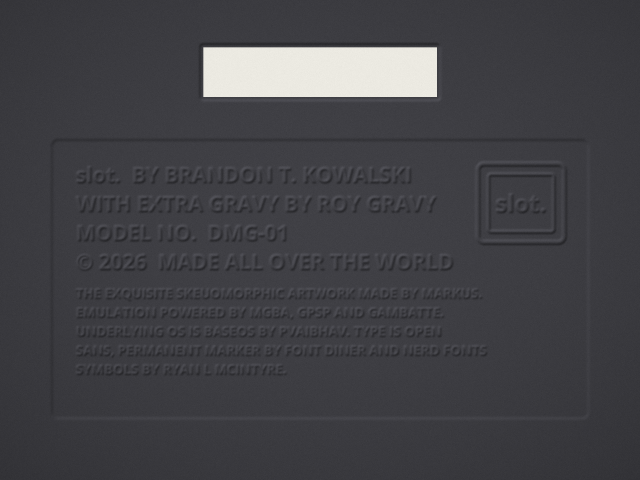
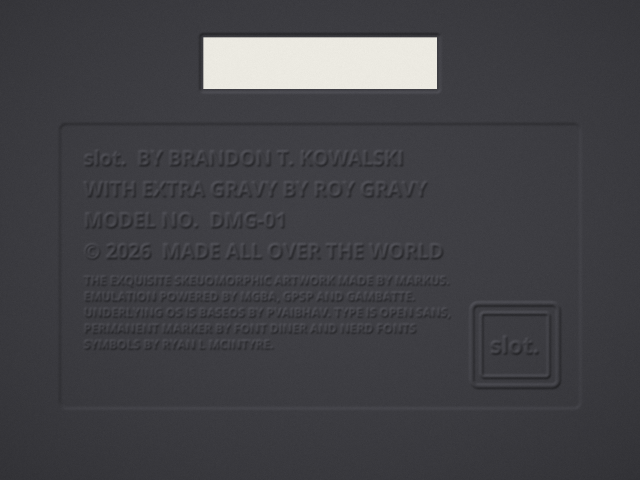
About follows the mockup layout, with a Back hint
The serial label sits higher, the credits fill the panel with the small print wrapped wide,
and the slot. badge sits bottom right. The page now shows the B Back hint like the other
menu pages.

Claude-Session: https://claude.ai/code/session_01HspWrybW4guRb45yc1TcJq

Changed region(s): [[0.3125, 0.0625, 0.6875, 0.125], [0.3125, 0.1875, 0.6875, 0.2188]]

diff --git a/tools/about_art.py b/tools/about_art.py
@@ -14,8 +14,8 @@ FONT = ROOT / "crates" / "slot-ui" / "assets" / "label.ttf"
 W, H, SS = 640, 480, 3
 
 # The paper serial label, in screen pixels; crates/slot-ui/src/about.rs prints on it.
-LABEL = (200, 44, 440, 100)
-PANEL = (52, 140, 588, 418)
+LABEL = (200, 34, 440, 92)
+PANEL = (60, 124, 580, 408)
 
 BIG = [
     "slot.  BY BRANDON T. KOWALSKI",
@@ -23,13 +23,12 @@ BIG = [
     "MODEL NO.  DMG-01",
     "© 2026  MADE ALL OVER THE WORLD",
 ]
-SMALL = [
-    "THE EXQUISITE SKEUOMORPHIC ARTWORK MADE BY MARKUS.",
-    "EMULATION POWERED BY MGBA, GPSP AND GAMBATTE.",
-    "UNDERLYING OS IS BASEOS BY PVAIBHAV. TYPE IS OPEN",
-    "SANS, PERMANENT MARKER BY FONT DINER AND NERD FONTS",
-    "SYMBOLS BY RYAN L MCINTYRE.",
-]
+SMALL = (
+    "THE EXQUISITE SKEUOMORPHIC ARTWORK MADE BY MARKUS. EMULATION POWERED BY MGBA, GPSP "
+    "AND GAMBATTE. UNDERLYING OS IS BASEOS BY PVAIBHAV. TYPE IS OPEN SANS, PERMANENT MARKER "
+    "BY FONT DINER AND NERD FONTS SYMBOLS BY RYAN L MCINTYRE."
+)
+SMALL_PX, SMALL_W = 12, 378
 
 LOOKS = {
     "light": np.array([184, 181, 175], np.float32),
@@ -60,20 +59,34 @@ def render(plastic):
     panel = mask(lambda d: d.rounded_rectangle(sc(PANEL), radius=6 * SS, fill=255))
     label = mask(lambda d: d.rounded_rectangle(sc(LABEL), radius=3 * SS, fill=255))
 
+    def wrap(text, f, width):
+        lines, line = [], ""
+        for w in text.split():
+            t = f"{line} {w}".strip()
+            if line and f.getlength(t) > width * SS:
+                lines.append(line)
+                t = w
+            line = t
+        return lines + [line]
+
     def letters(d):
+        x = (PANEL[0] + 24) * SS
         y = (PANEL[1] + 20) * SS
         for s in BIG:
-            d.text(((PANEL[0] + 24) * SS, y), s, font=font(21), fill=255)
-            y += int(29 * SS)
-        y += 8 * SS
-        for s in SMALL:
-            d.text(((PANEL[0] + 24) * SS, y), s, font=font(13.5), fill=255)
-            y += int(19 * SS)
-        bx0, by0, bx1, by1 = PANEL[2] - 112, PANEL[1] + 22, PANEL[2] - 22, PANEL[1] + 104
+            d.text((x, y), s, font=font(20), fill=255)
+            y += int(31 * SS)
+        y += 4 * SS
+        small = font(SMALL_PX)
+        for s in wrap(SMALL, small, SMALL_W):
+            d.text((x, y), s, font=small, fill=255)
+            y += int(16 * SS)
+        # The slot. badge, bottom right in the panel.
+        bx1, by1 = PANEL[2] - 20, PANEL[3] - 20
+        bx0, by0 = bx1 - 90, by1 - 86
         d.rounded_rectangle(sc((bx0, by0, bx1, by1)), radius=8 * SS, outline=255, width=4 * SS)
-        d.rounded_rectangle(sc((bx0 + 11, by0 + 11, bx1 - 11, by1 - 11)), radius=4 * SS,
+        d.rounded_rectangle(sc((bx0 + 10, by0 + 10, bx1 - 10, by1 - 10)), radius=4 * SS,
                             outline=255, width=3 * SS)
-        d.text(((bx0 + bx1) * SS // 2, (by0 + by1) * SS // 2), "slot.", font=font(24),
+        d.text(((bx0 + bx1) * SS // 2, (by0 + by1) * SS // 2), "slot.", font=font(23),
                fill=255, anchor="mm")
 
     text = mask(letters)

diff --git a/crates/slot/src/app.rs b/crates/slot/src/app.rs
@@ -3224,6 +3224,21 @@ impl App {
             }
             Phase::About => {
                 slot_ui::draw_about(self.canvas(), self.sticker_face, out);
+                if let Some(back) = self.buttons_faces.as_ref().map(|f| [f.legend[1]]) {
+                    let ink = self.menu_ink();
+                    for (tex, w, x) in
+                        slot_ui::centred_hints(self.canvas(), &back, slot_ui::LEGEND_GAP)
+                    {
+                        out.push(Draw::Tint {
+                            x,
+                            y: slot_ui::MENU_LEGEND_Y,
+                            w: w as f32,
+                            h: slot_ui::HINT_H as f32,
+                            tex,
+                            colour: ink.text,
+                        });
+                    }
+                }
                 return;
             }
             Phase::Inserting { cart, resumed, .. } => {

diff --git a/crates/slot-ui/src/about.rs b/crates/slot-ui/src/about.rs
@@ -10,7 +10,7 @@ const DARK_PNG: &[u8] = include_bytes!("../../../assets/about_dark.png");
 const LIGHT_PNG: &[u8] = include_bytes!("../../../assets/about_light.png");
 
 /// The paper label, as tools/about_art.py draws it.
-const LABEL: (u32, u32, u32, u32) = (200, 44, 440, 100);
+const LABEL: (u32, u32, u32, u32) = (200, 34, 440, 92);
 const SERIAL_PX: f32 = 30.0;
 const INK: [u8; 3] = [0x1e, 0x1e, 0x20];
 

diff --git a/crates/slot-ui/src/lib.rs b/crates/slot-ui/src/lib.rs
@@ -80,6 +80,7 @@ pub use power_menu::{menu_face, PowerChoice, MENU_PAD};
 pub use about::{about_face, draw_about};
 pub use buttons_help::{
     buttons_body_face, buttons_tab_face, ButtonsFaces, ButtonsHelp, BUTTON_PAGES,
+    LEGEND_Y as MENU_LEGEND_Y,
 };
 pub use quick_menu::{
     draw_menu_ground, quick_caret_face, quick_help_face, quick_label_face, quick_legend_faces,

diff --git a/crates/slot-ui/src/buttons_help.rs b/crates/slot-ui/src/buttons_help.rs
@@ -73,7 +73,7 @@ const ROW_MAX: f32 = 40.0;
 const KEY_PX: f32 = 17.0;
 const DO_PX: f32 = 17.0;
 const KEY_W: f32 = 270.0;
-const LEGEND_Y: f32 = 427.0;
+pub const LEGEND_Y: f32 = 427.0;
 /// How strongly the description column reads against the key column.
 const DO_ALPHA: f32 = 0.72;
 
